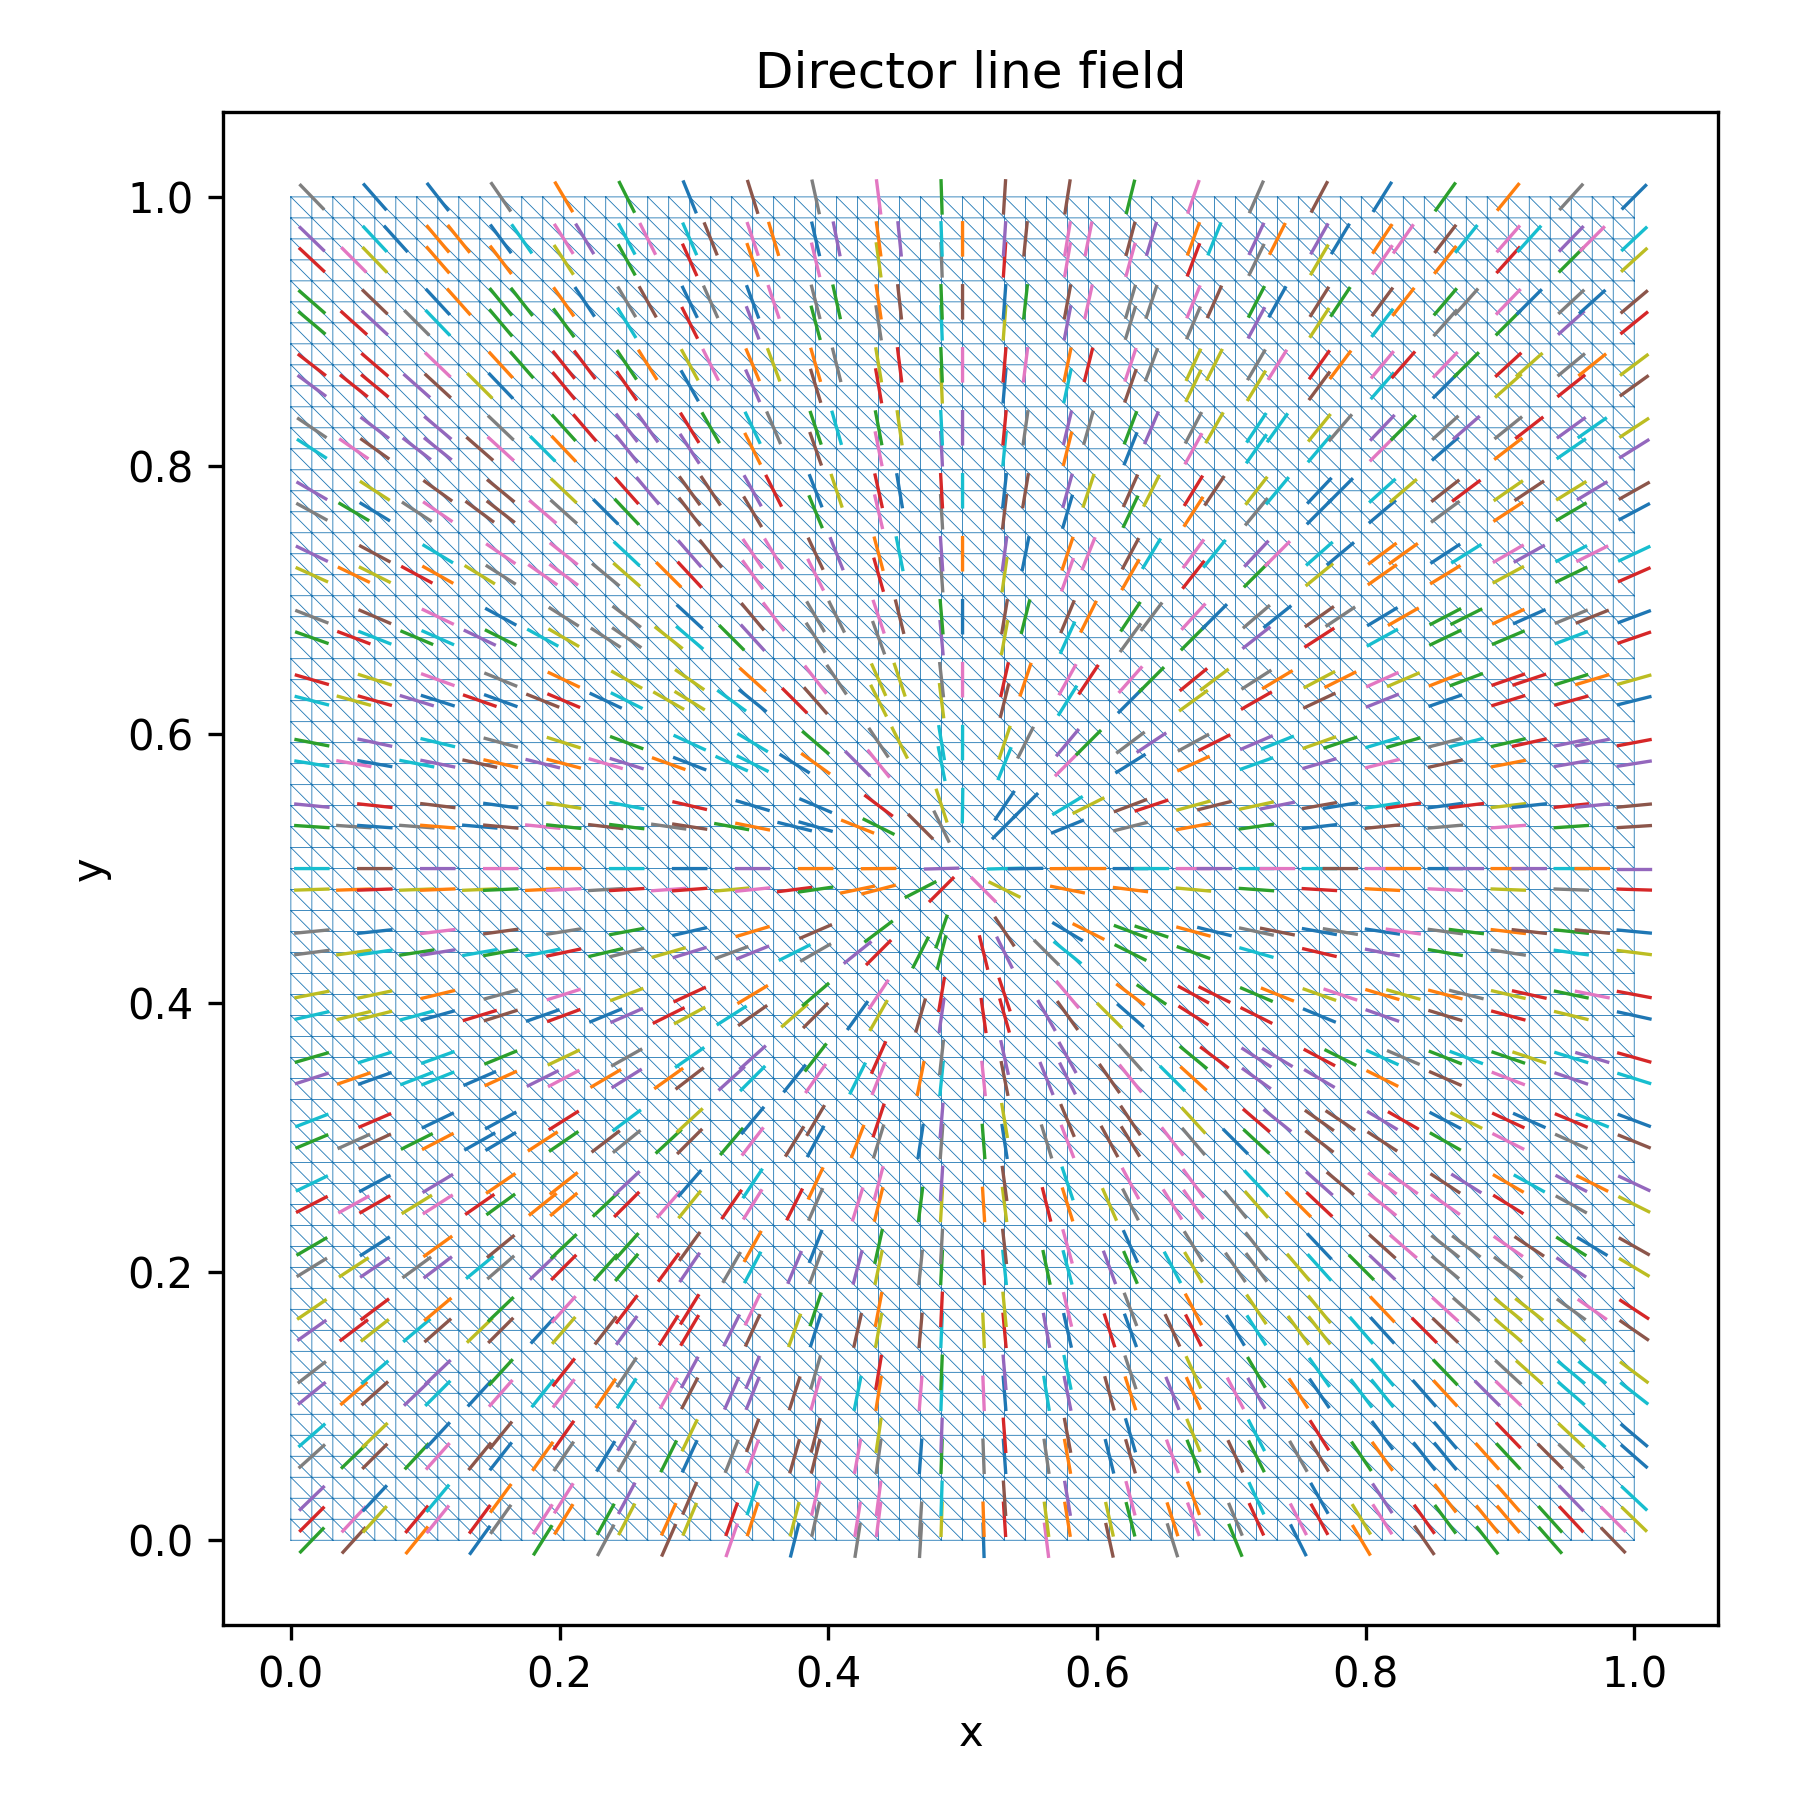
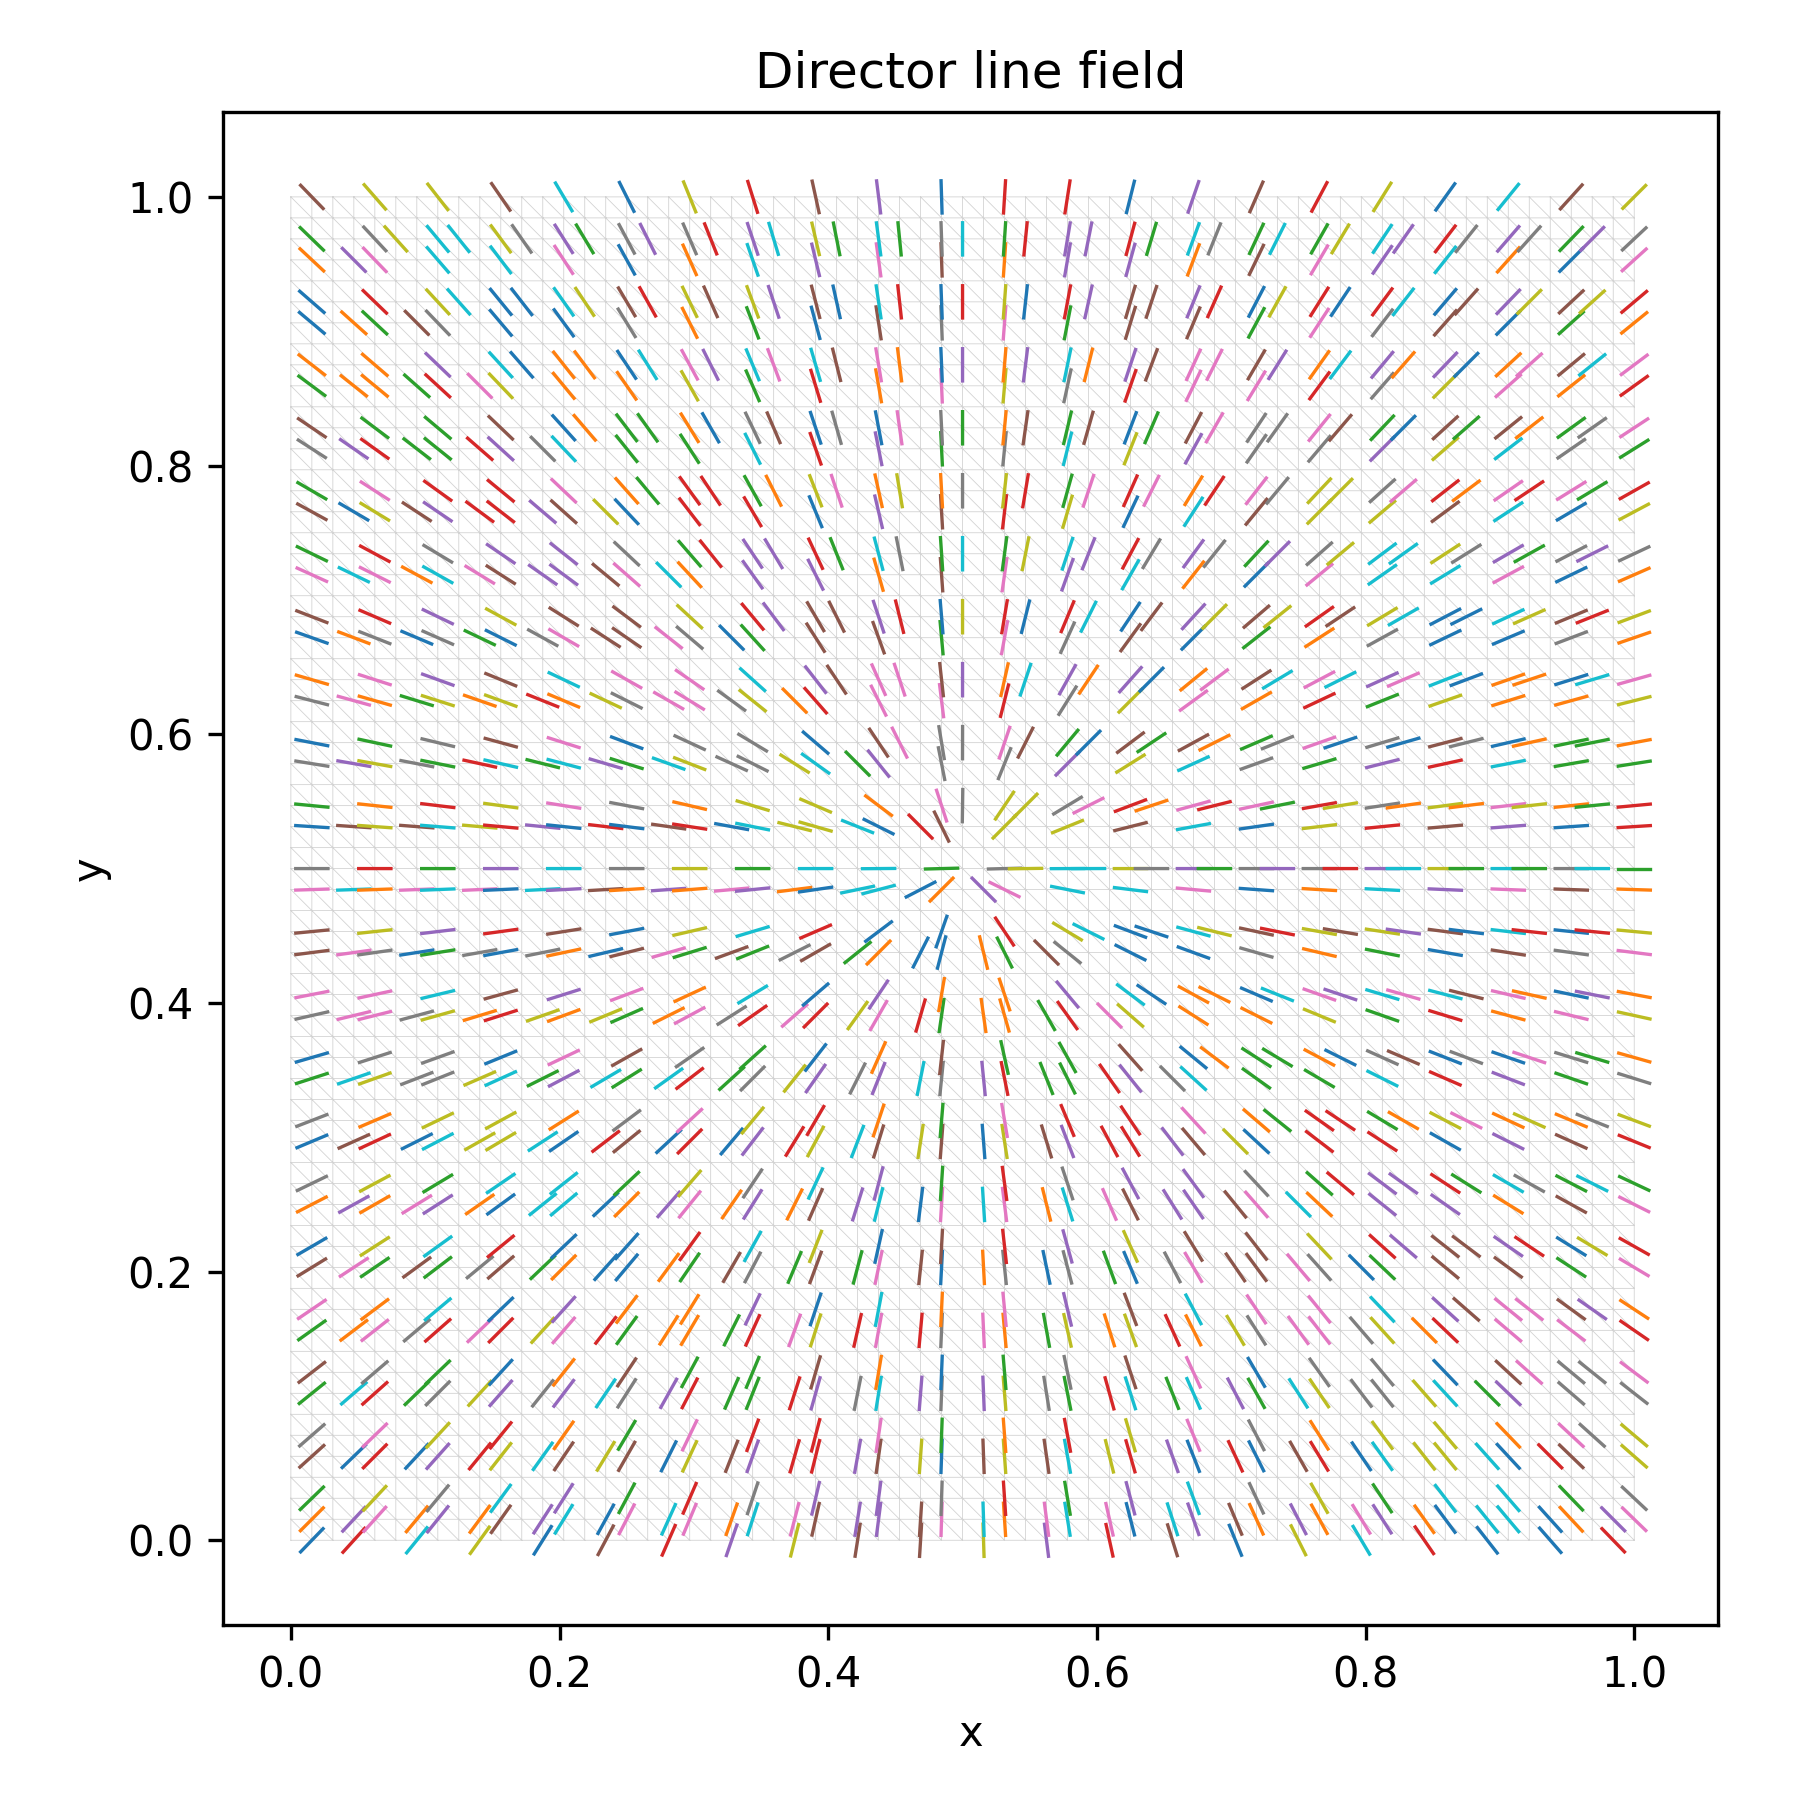
different colors in lineplot reason

Changed region(s): [[0.1556, 0.0933, 0.9333, 0.8711]]

diff --git a/Prakash/MMS_NonlinearSolve/mms_qtensor_2D.py b/Prakash/MMS_NonlinearSolve/mms_qtensor_2D.py
@@ -212,6 +212,8 @@ for i in range(len(q_vals)):
 
 # ----------------------------------------------------
 # Save director PNG in current MMS folder
+# Note that plt.plot(...) automatically cycles through Matplotlib’s default color list every time you draw a new line,
+# so the lines will have different colors.
 # ----------------------------------------------------
 coords = mesh.coordinates.dat.data_ro
 cells = mesh.coordinates.cell_node_map().values

diff --git a/Prakash/MMS_GradientDescent/MMS_gradient.py b/Prakash/MMS_GradientDescent/MMS_gradient.py
@@ -323,6 +323,8 @@ for i in range(len(q_vals)):
 
 # ----------------------------------------------------
 # Save director line-field PNG
+# Note that plt.plot(...) automatically cycles through Matplotlib’s default color list every time you draw a new line,
+# so the lines will have different colors.
 # ----------------------------------------------------
 coords = mesh.coordinates.dat.data_ro
 cells = mesh.coordinates.cell_node_map().values
